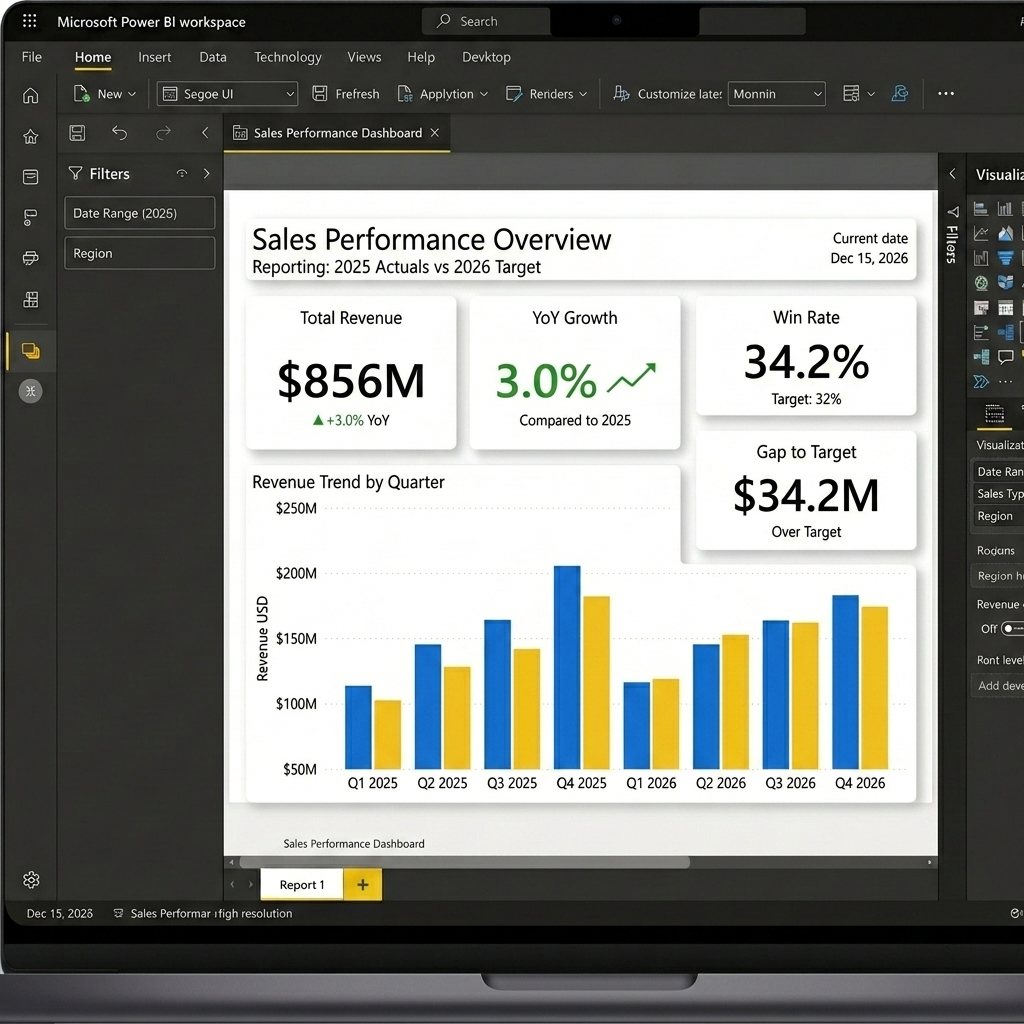
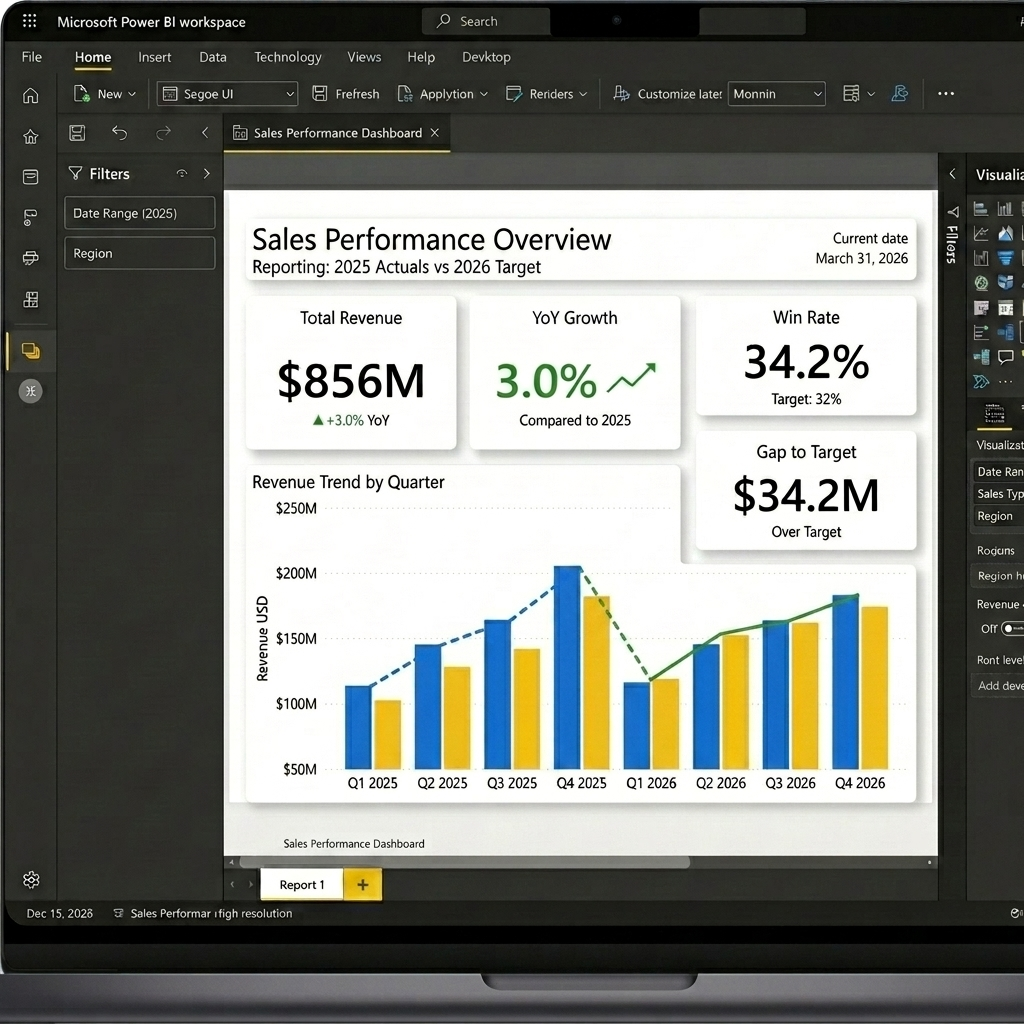
fix: adjust dates to Q1 2026 and replace funnel leakage preview with premium Salesforce CRM interface

diff --git a/README.md b/README.md
@@ -54,10 +54,10 @@ Real ODP revenue data: $856M ISO baseline, 3% stagnant growth, 7% target gap of 
 
 <img src="./assets/dashboard_exec_summary.png" alt="Executive Summary Dashboard" width="100%">
 
-### ⏳ Page 2 — Funnel Leakage Analysis
-Side-by-side Hunter vs. Farmer funnel conversion. Hunters drop from 68% at Qualification to 45% at Proposal — the critical $8M leak identified by the Salesforce pipeline data.
+### ⏳ Page 2 — Salesforce CRM Funnel Leakage
+An opportunity funnel dashboard extracted directly from Salesforce CRM (Lightning Experience). Visualizes the exact Hunter stages: Prospecting (100%), Qualification (68%), and Proposal (45% - with the critical 33% pricing approval leak highlighted), Negotiation (22%), and Closed Won (12%).
 
-<img src="./assets/dashboard_funnel_leakage.png" alt="Funnel Leakage Analysis" width="100%">
+<img src="./assets/dashboard_funnel_leakage.png" alt="Salesforce Funnel Leakage Analysis" width="100%">
 
 ### 🎛️ Page 4 — 7% Growth Simulator
 Drag sliders across 4 levers. The bar chart and all KPIs update live. A green success banner fires the moment you reach the 7% target.